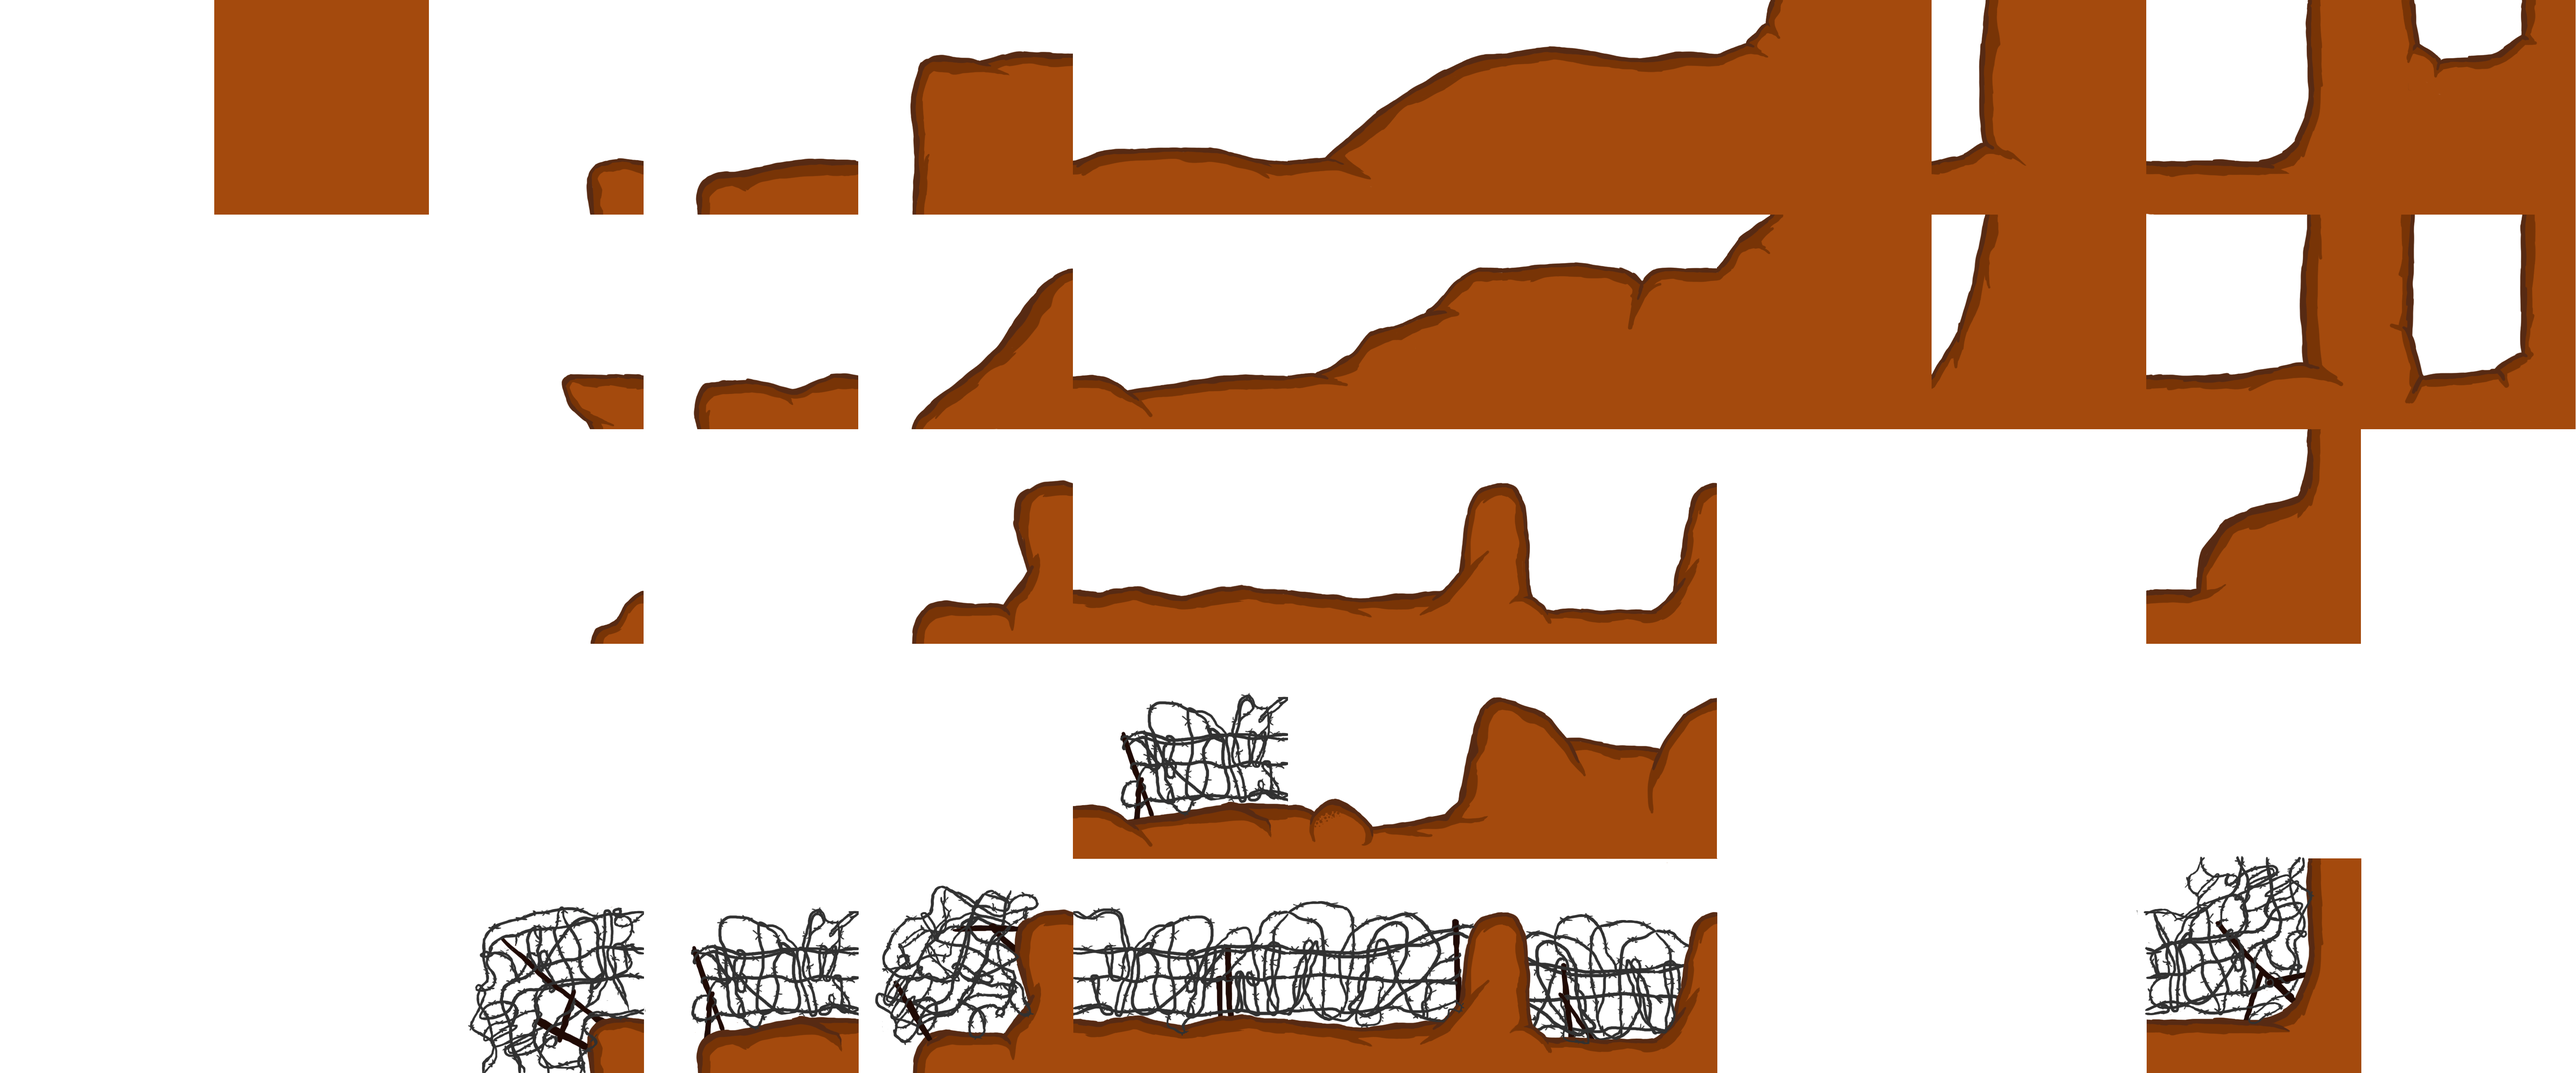
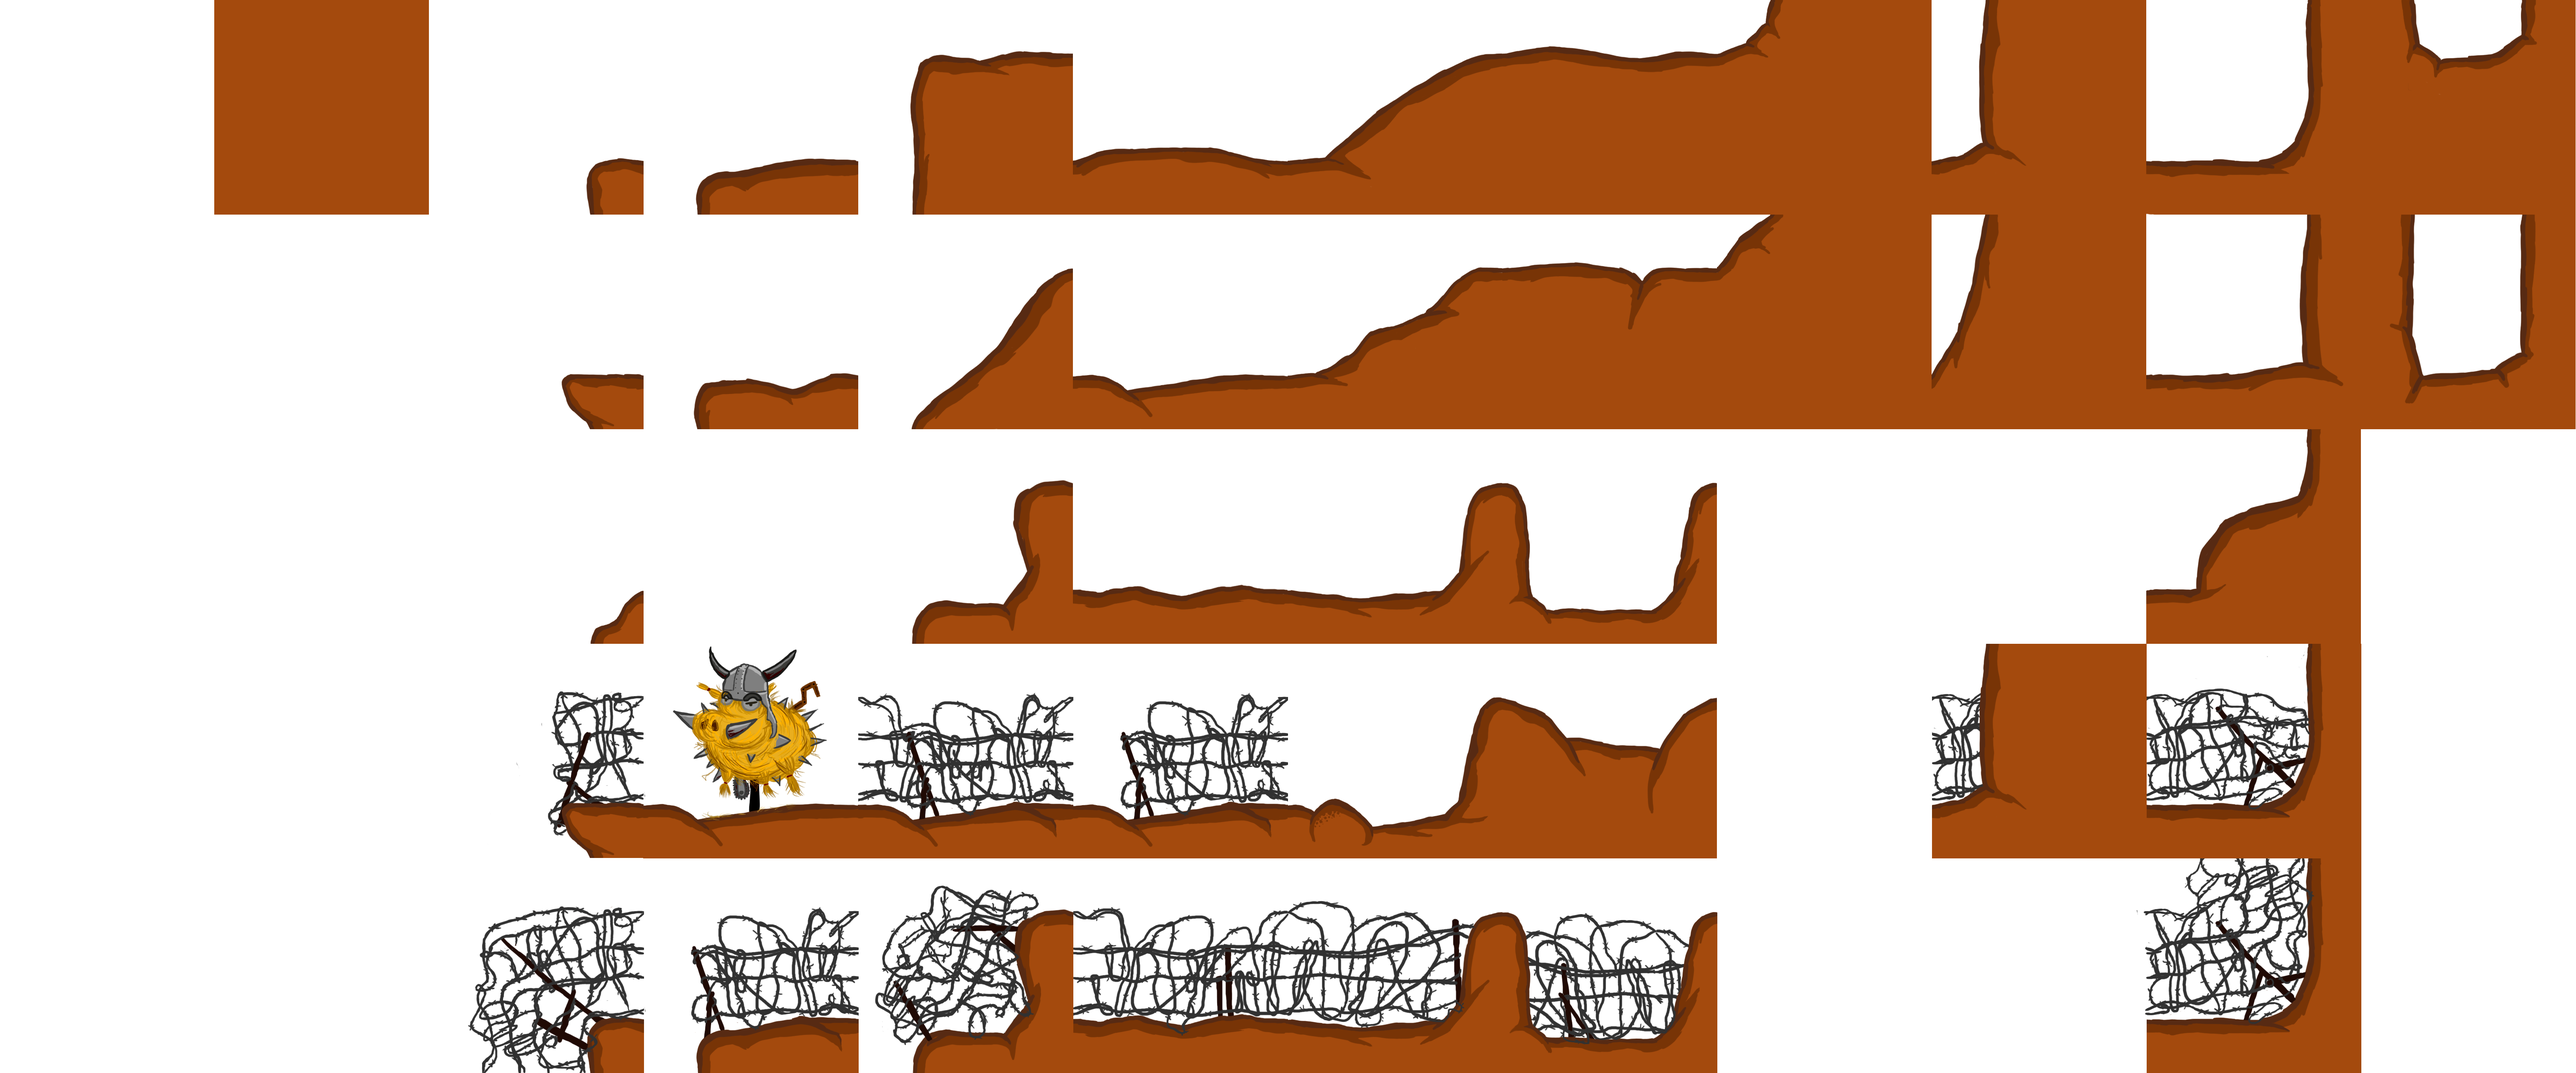
Pig Shock Animations Mehr Spike Tiles

Changed region(s): [[0.75, 0.5938, 0.9375, 0.8125], [0.1875, 0.5938, 0.4375, 0.8125]]

diff --git a/src/Game/Tile.java b/src/Game/Tile.java
@@ -114,17 +114,6 @@ public class Tile {
 				fixtures.add(verts);
 				break;
 	
-			case 5:
-				verts = new Vec2[5];
-				crap = (flipped) ? 4 : 0;
-				verts[Math.abs(crap - 0)] = new Vec2(shit * -0.5f, -0.5f);
-				verts[Math.abs(crap - 1)] = new Vec2(shit * 0.5f, -0.5f);
-				verts[Math.abs(crap - 2)] = new Vec2(shit * 0.5f, -0.25f);
-				verts[Math.abs(crap - 3)] = new Vec2(shit * -0.109375f, -0.24609375f);
-				verts[Math.abs(crap - 4)] = new Vec2(shit * -0.5f, -0.25f);
-				fixtures.add(verts);
-				break;
-	
 			case 6:
 				verts = new Vec2[4];
 				crap = (flipped) ? 3 : 0;
@@ -140,17 +129,6 @@ public class Tile {
 				verts[Math.abs(crap - 2)] = new Vec2(shit * 0.28515625f, 0.19140625f);
 				verts[Math.abs(crap - 3)] = new Vec2(shit * -0.03515625f, 0.005859375f);
 				verts[Math.abs(crap - 4)] = new Vec2(shit * -0.32421875f, -0.23242188f);
-				fixtures.add(verts);
-				break;
-				
-			case 7:
-				verts = new Vec2[5];
-				crap = (flipped) ? 4 : 0;
-				verts[Math.abs(crap - 0)] = new Vec2(shit * -0.5f, -0.5f);
-				verts[Math.abs(crap - 1)] = new Vec2(shit * 0.5f, -0.5f);
-				verts[Math.abs(crap - 2)] = new Vec2(shit * 0.5f, 0.25f);
-				verts[Math.abs(crap - 3)] = new Vec2(shit * -0.064453125f, 0.2578125f);
-				verts[Math.abs(crap - 4)] = new Vec2(shit * -0.5f, 0.25f);
 				fixtures.add(verts);
 				break;
 	
@@ -692,6 +670,93 @@ public class Tile {
 				verts[Math.abs(crap - 3)] = new Vec2(shit * 0.25390625f, -0.24414062f);
 				fixtures.add(verts);
 				break;
+				
+			case 5:
+				verts = new Vec2[4];
+				crap = (flipped) ? 3 : 0;
+				verts[Math.abs(crap - 0)] = new Vec2(shit * -0.5f, -0.5f);
+				verts[Math.abs(crap - 1)] = new Vec2(shit * 0.5f, -0.5f);
+				verts[Math.abs(crap - 2)] = new Vec2(shit * 0.5f, -0.25f);
+				verts[Math.abs(crap - 3)] = new Vec2(shit * -0.5f, -0.25f);
+				fixtures.add(verts);
+				break;
+
+			case 7:
+				verts = new Vec2[4];
+				crap = (flipped) ? 3 : 0;
+				verts[Math.abs(crap - 0)] = new Vec2(shit * -0.5f, -0.5f);
+				verts[Math.abs(crap - 1)] = new Vec2(shit * 0.5f, -0.5f);
+				verts[Math.abs(crap - 2)] = new Vec2(shit * 0.5f, 0.25f);
+				verts[Math.abs(crap - 3)] = new Vec2(shit * -0.5f, 0.25f);
+				fixtures.add(verts);
+				break;
+
+			case 38:
+				verts = new Vec2[6];
+				crap = (flipped) ? 5 : 0;
+				verts[Math.abs(crap - 0)] = new Vec2(shit * 0.25f, -0.5f);
+				verts[Math.abs(crap - 1)] = new Vec2(shit * 0.5f, -0.5f);
+				verts[Math.abs(crap - 2)] = new Vec2(shit * 0.5f, -0.25f);
+				verts[Math.abs(crap - 3)] = new Vec2(shit * 0.16015625f, -0.24414062f);
+				verts[Math.abs(crap - 4)] = new Vec2(shit * 0.13085938f, -0.29492188f);
+				verts[Math.abs(crap - 5)] = new Vec2(shit * 0.16796875f, -0.39453125f);
+				fixtures.add(verts);
+				break;
+
+			case 39:
+				verts = new Vec2[4];
+				crap = (flipped) ? 3 : 0;
+				verts[Math.abs(crap - 0)] = new Vec2(shit * -0.5f, -0.5f);
+				verts[Math.abs(crap - 1)] = new Vec2(shit * 0.5f, -0.5f);
+				verts[Math.abs(crap - 2)] = new Vec2(shit * 0.5f, -0.25f);
+				verts[Math.abs(crap - 3)] = new Vec2(shit * -0.5f, -0.25f);
+				fixtures.add(verts);
+				break;
+
+			case 40:
+				verts = new Vec2[4];
+				crap = (flipped) ? 3 : 0;
+				verts[Math.abs(crap - 0)] = new Vec2(shit * -0.5f, -0.5f);
+				verts[Math.abs(crap - 1)] = new Vec2(shit * 0.5f, -0.5f);
+				verts[Math.abs(crap - 2)] = new Vec2(shit * 0.5f, -0.25f);
+				verts[Math.abs(crap - 3)] = new Vec2(shit * -0.5f, -0.25f);
+				fixtures.add(verts);
+				break;
+
+			case 45:
+				verts = new Vec2[4];
+				crap = (flipped) ? 3 : 0;
+				verts[Math.abs(crap - 0)] = new Vec2(shit * -0.5f, -0.5f);
+				verts[Math.abs(crap - 1)] = new Vec2(shit * 0.5f, -0.5f);
+				verts[Math.abs(crap - 2)] = new Vec2(shit * -0.26757812f, -0.16210938f);
+				verts[Math.abs(crap - 3)] = new Vec2(shit * -0.5f, -0.25f);
+				fixtures.add(verts);
+				verts = new Vec2[4];
+				crap = (flipped) ? 3 : 0;
+				verts[Math.abs(crap - 0)] = new Vec2(shit * 0.5f, -0.5f);
+				verts[Math.abs(crap - 1)] = new Vec2(shit * 0.5f, 0.5f);
+				verts[Math.abs(crap - 2)] = new Vec2(shit * -0.25f, 0.5f);
+				verts[Math.abs(crap - 3)] = new Vec2(shit * -0.26757812f, -0.16210938f);
+				fixtures.add(verts);
+				break;
+
+			case 46:
+				verts = new Vec2[4];
+				crap = (flipped) ? 3 : 0;
+				verts[Math.abs(crap - 0)] = new Vec2(shit * -0.5f, -0.5f);
+				verts[Math.abs(crap - 1)] = new Vec2(shit * 0.5f, -0.5f);
+				verts[Math.abs(crap - 2)] = new Vec2(shit * 0.24023438f, -0.25585938f);
+				verts[Math.abs(crap - 3)] = new Vec2(shit * -0.5f, -0.25f);
+				fixtures.add(verts);
+				verts = new Vec2[4];
+				crap = (flipped) ? 3 : 0;
+				verts[Math.abs(crap - 0)] = new Vec2(shit * 0.5f, -0.5f);
+				verts[Math.abs(crap - 1)] = new Vec2(shit * 0.5f, 0.5f);
+				verts[Math.abs(crap - 2)] = new Vec2(shit * 0.25f, 0.5f);
+				verts[Math.abs(crap - 3)] = new Vec2(shit * 0.24023438f, -0.25585938f);
+				fixtures.add(verts);
+				break;
+
 			}
 		return fixtures;
 	}

diff --git a/src/Game/Spike.java b/src/Game/Spike.java
@@ -72,6 +72,58 @@ public class Spike {
 		float shit = (flipped) ? -1f : 1f;
 		
 		switch (type) {
+		case 38:
+			verts = new Vec2[4];
+			crap = (flipped) ? 3 : 0;
+			verts[Math.abs(crap - 0)] = new Vec2(shit * 0.16601562f, -0.27734375f);
+			verts[Math.abs(crap - 1)] = new Vec2(shit * 0.5f, -0.25f);
+			verts[Math.abs(crap - 2)] = new Vec2(shit * 0.5f, 0.0f);
+			verts[Math.abs(crap - 3)] = new Vec2(shit * 0.203125f, -0.01171875f);
+			fixtures.add(verts);
+			break;
+
+		case 39:
+			verts = new Vec2[7];
+			crap = (flipped) ? 6 : 0;
+			verts[Math.abs(crap - 0)] = new Vec2(shit * 0.013671875f, -0.28710938f);
+			verts[Math.abs(crap - 1)] = new Vec2(shit * 0.23046875f, -0.19335938f);
+			verts[Math.abs(crap - 2)] = new Vec2(shit * 0.34375f, 0.048828125f);
+			verts[Math.abs(crap - 3)] = new Vec2(shit * 0.14648438f, 0.40429688f);
+			verts[Math.abs(crap - 4)] = new Vec2(shit * -0.17578125f, 0.41992188f);
+			verts[Math.abs(crap - 5)] = new Vec2(shit * -0.33398438f, 0.16601562f);
+			verts[Math.abs(crap - 6)] = new Vec2(shit * -0.1875f, -0.15625f);
+			fixtures.add(verts);
+			break;
+
+		case 40:
+			verts = new Vec2[4];
+			crap = (flipped) ? 3 : 0;
+			verts[Math.abs(crap - 0)] = new Vec2(shit * -0.5f, -0.25f);
+			verts[Math.abs(crap - 1)] = new Vec2(shit * 0.5f, -0.25f);
+			verts[Math.abs(crap - 2)] = new Vec2(shit * 0.5f, 0.0f);
+			verts[Math.abs(crap - 3)] = new Vec2(shit * -0.5f, 0.0f);
+			fixtures.add(verts);
+			break;
+
+		case 45:
+			verts = new Vec2[4];
+			crap = (flipped) ? 3 : 0;
+			verts[Math.abs(crap - 0)] = new Vec2(shit * -0.5f, -0.25f);
+			verts[Math.abs(crap - 1)] = new Vec2(shit * -0.13867188f, -0.26953125f);
+			verts[Math.abs(crap - 2)] = new Vec2(shit * -0.20703125f, 0.05859375f);
+			verts[Math.abs(crap - 3)] = new Vec2(shit * -0.5f, 0.0f);
+			fixtures.add(verts);
+			break;
+
+		case 46:
+			verts = new Vec2[4];
+			crap = (flipped) ? 3 : 0;
+			verts[Math.abs(crap - 0)] = new Vec2(shit * -0.5f, -0.25f);
+			verts[Math.abs(crap - 1)] = new Vec2(shit * 0.37304688f, -0.328125f);
+			verts[Math.abs(crap - 2)] = new Vec2(shit * 0.33203125f, -0.0234375f);
+			verts[Math.abs(crap - 3)] = new Vec2(shit * -0.5f, 0.0f);
+			fixtures.add(verts);
+			break;
 		case 41:
 			verts = new Vec2[4];
 			crap = (flipped) ? 3 : 0;

diff --git a/src/Game/SmartPig.java b/src/Game/SmartPig.java
@@ -93,6 +93,10 @@ public class SmartPig extends Enemy {
 				
 			}
 		}
+		
+		if (getsGrilled) {
+			this.currentAnimation = animations.get("shock");
+		}
 
 		++switchTimeCounter;
 	}
@@ -105,10 +109,13 @@ public class SmartPig extends Enemy {
 		SpriteSheet sheetIdle = Images.getInstance().getSpriteSheet("images/smartpigIdle.png", 	275, 300);
 		SpriteSheet sheetDie  = Images.getInstance().getSpriteSheet("images/smartpigdeath.png", 	275, 300);
 		SpriteSheet sheetDisabled  = Images.getInstance().getSpriteSheet("images/smartpigdisable.png", 	275, 250);
+		SpriteSheet sheetShock  = Images.getInstance().getSpriteSheet("images/smartpigshock.png", 	275, 300);
 		
 		
 		Animation animationWalk = new Animation(sheetWalk, 120);
 		Animation animationRun = new Animation(sheetRun, 80);
+		
+		Animation animationShock = new Animation(sheetShock, 80);
 
 		Animation animationIdle = new Animation(sheetIdle, 150);
 
@@ -122,12 +129,14 @@ public class SmartPig extends Enemy {
 		animations.put("idle", animationIdle);
 		animations.put("disabled", animationDisabled);
 		animations.put("die", animationDie);
+		animations.put("shock", animationShock);
 		
 		animationOffsets.put("images/smartpigWalk.png", new Vec2(-0.5f, -1f));
 		animationOffsets.put("images/smartpigrun.png", new Vec2(-0.6f, -0.9f));
 		animationOffsets.put("images/smartpigIdle.png", new Vec2(-0.5f, -1f));
 		animationOffsets.put("images/smartpigdeath.png", new Vec2(-0.5f, -0.6f));
 		animationOffsets.put("images/smartpigdisable.png", new Vec2(-0.5f, -0.6f));
+		animationOffsets.put("images/smartpigshock.png", new Vec2(-0.5f, -0.6f));
 		
 		currentAnimation = animationWalk;
 		

diff --git a/src/Game/DumbPig.java b/src/Game/DumbPig.java
@@ -66,6 +66,10 @@ public class DumbPig extends Enemy{
 			}
 		}
 		
+		if (getsGrilled) {
+			this.currentAnimation = animations.get("shock");
+		}
+		
 		++updateCounter;
 	}
 
@@ -77,8 +81,11 @@ public class DumbPig extends Enemy{
 		SpriteSheet sheetIdle2 = Images.getInstance().getSpriteSheet("images/dumbpigidlescratch.png", 	275, 275);
 		SpriteSheet sheetDie  = Images.getInstance().getSpriteSheet("images/dumbpigdeath.png", 	275, 275);
 		SpriteSheet sheetDisabled  = Images.getInstance().getSpriteSheet("images/dumbpigdisable.png", 	275, 250);
+		SpriteSheet sheetShock  = Images.getInstance().getSpriteSheet("images/dumbpigshock.png", 	275, 300);
 		
 		Animation animationWalk = new Animation(sheetWalk, 80);
+		
+		Animation animationShock = new Animation(sheetShock, 80);
 		
 		Animation animationDisabled = new Animation(sheetDisabled, 150);
 
@@ -95,12 +102,14 @@ public class DumbPig extends Enemy{
 		animations.put("idle2", animationIdle2);
 		animations.put("die", animationDie);
 		animations.put("disabled", animationDisabled);
+		animations.put("shock", animationShock);
 		
 		animationOffsets.put("images/dumbpigwalk.png", new Vec2(-0.5f, -0.7f));
 		animationOffsets.put("images/dumbpigidle.png", new Vec2(-0.5f, -0.7f));
 		animationOffsets.put("images/dumbpigidlescratch.png", new Vec2(-0.5f, -0.7f));
 		animationOffsets.put("images/dumbpigdeath.png", new Vec2(-0.5f, -0.6f));
 		animationOffsets.put("images/dumbpigdisable.png", new Vec2(-0.5f, -0.6f));
+		animationOffsets.put("images/dumbpigshock.png", new Vec2(-0.5f, -0.6f));
 		
 		currentAnimation = animationWalk;
 	

diff --git a/src/Game/Game.java b/src/Game/Game.java
@@ -197,7 +197,8 @@ public class Game extends BasicGame {
 	private boolean isSpike(int type) {
 		if ((type >= 50 && type <= 55) ||
 			(type == 58) ||
-			(type == 41)) {
+			(type >= 38 && type <= 41) ||
+			(type >= 45 && type <= 46)) {
 			return true;
 		}
 		return false;
